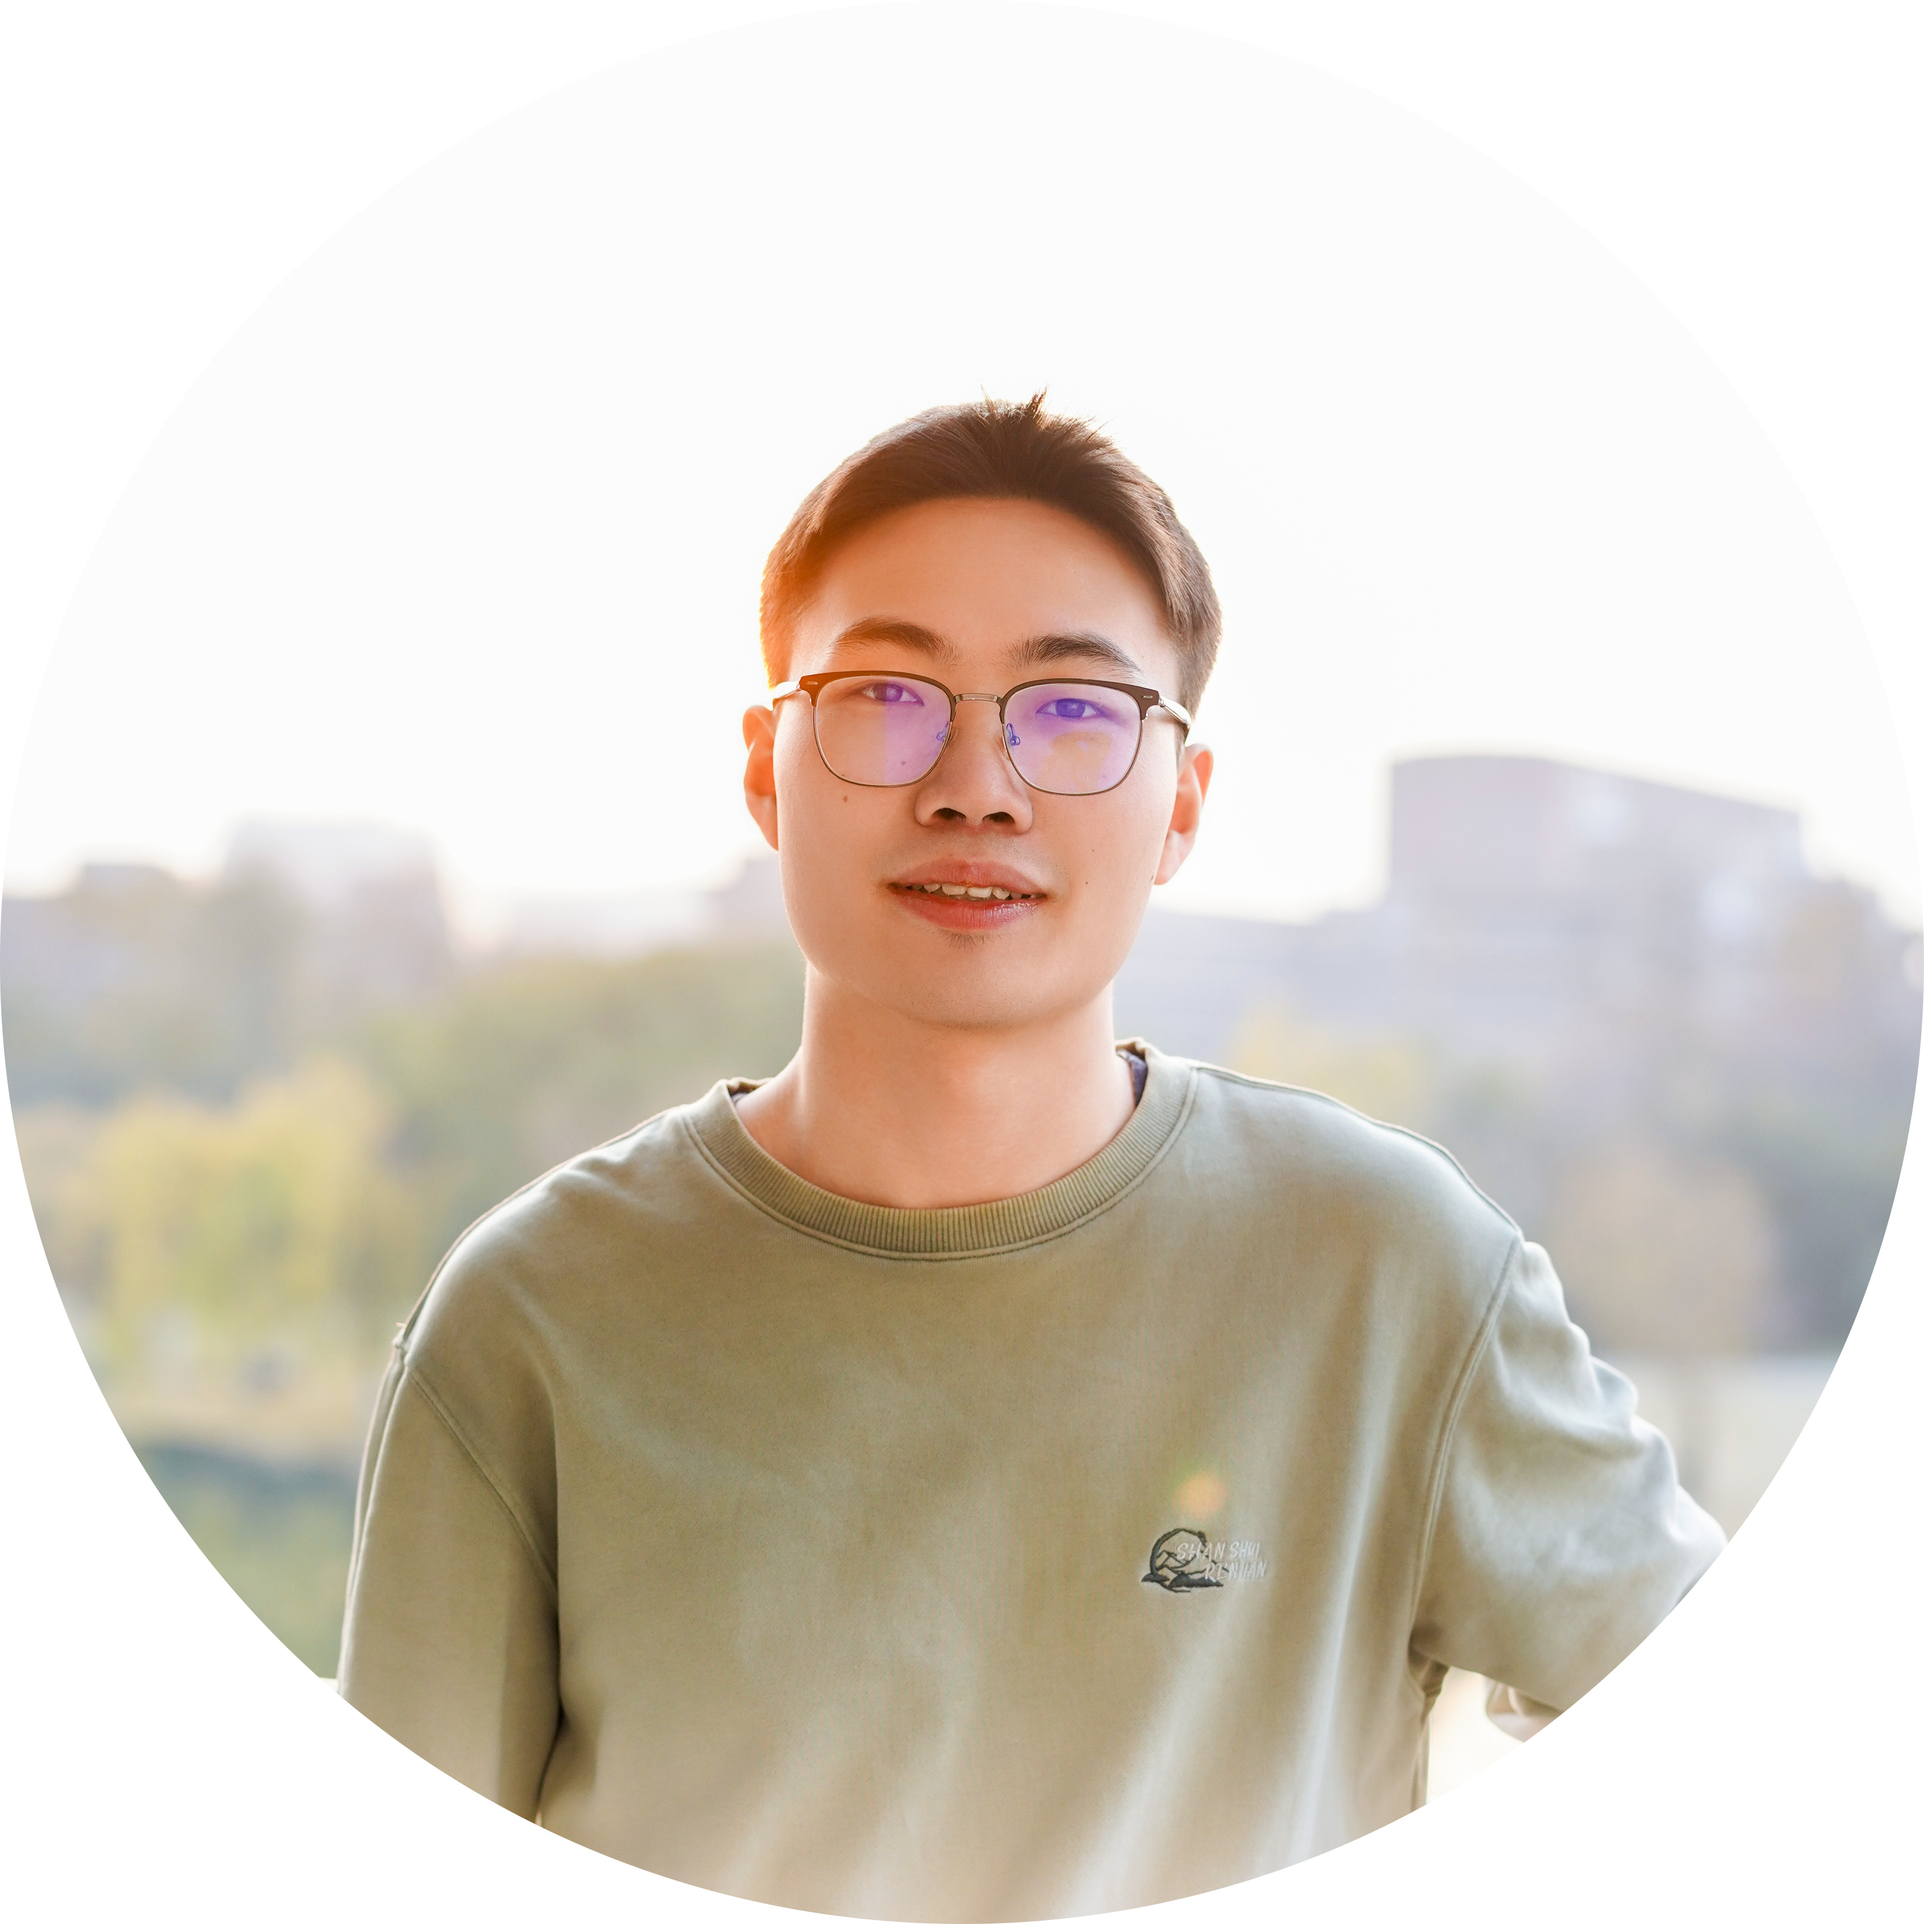
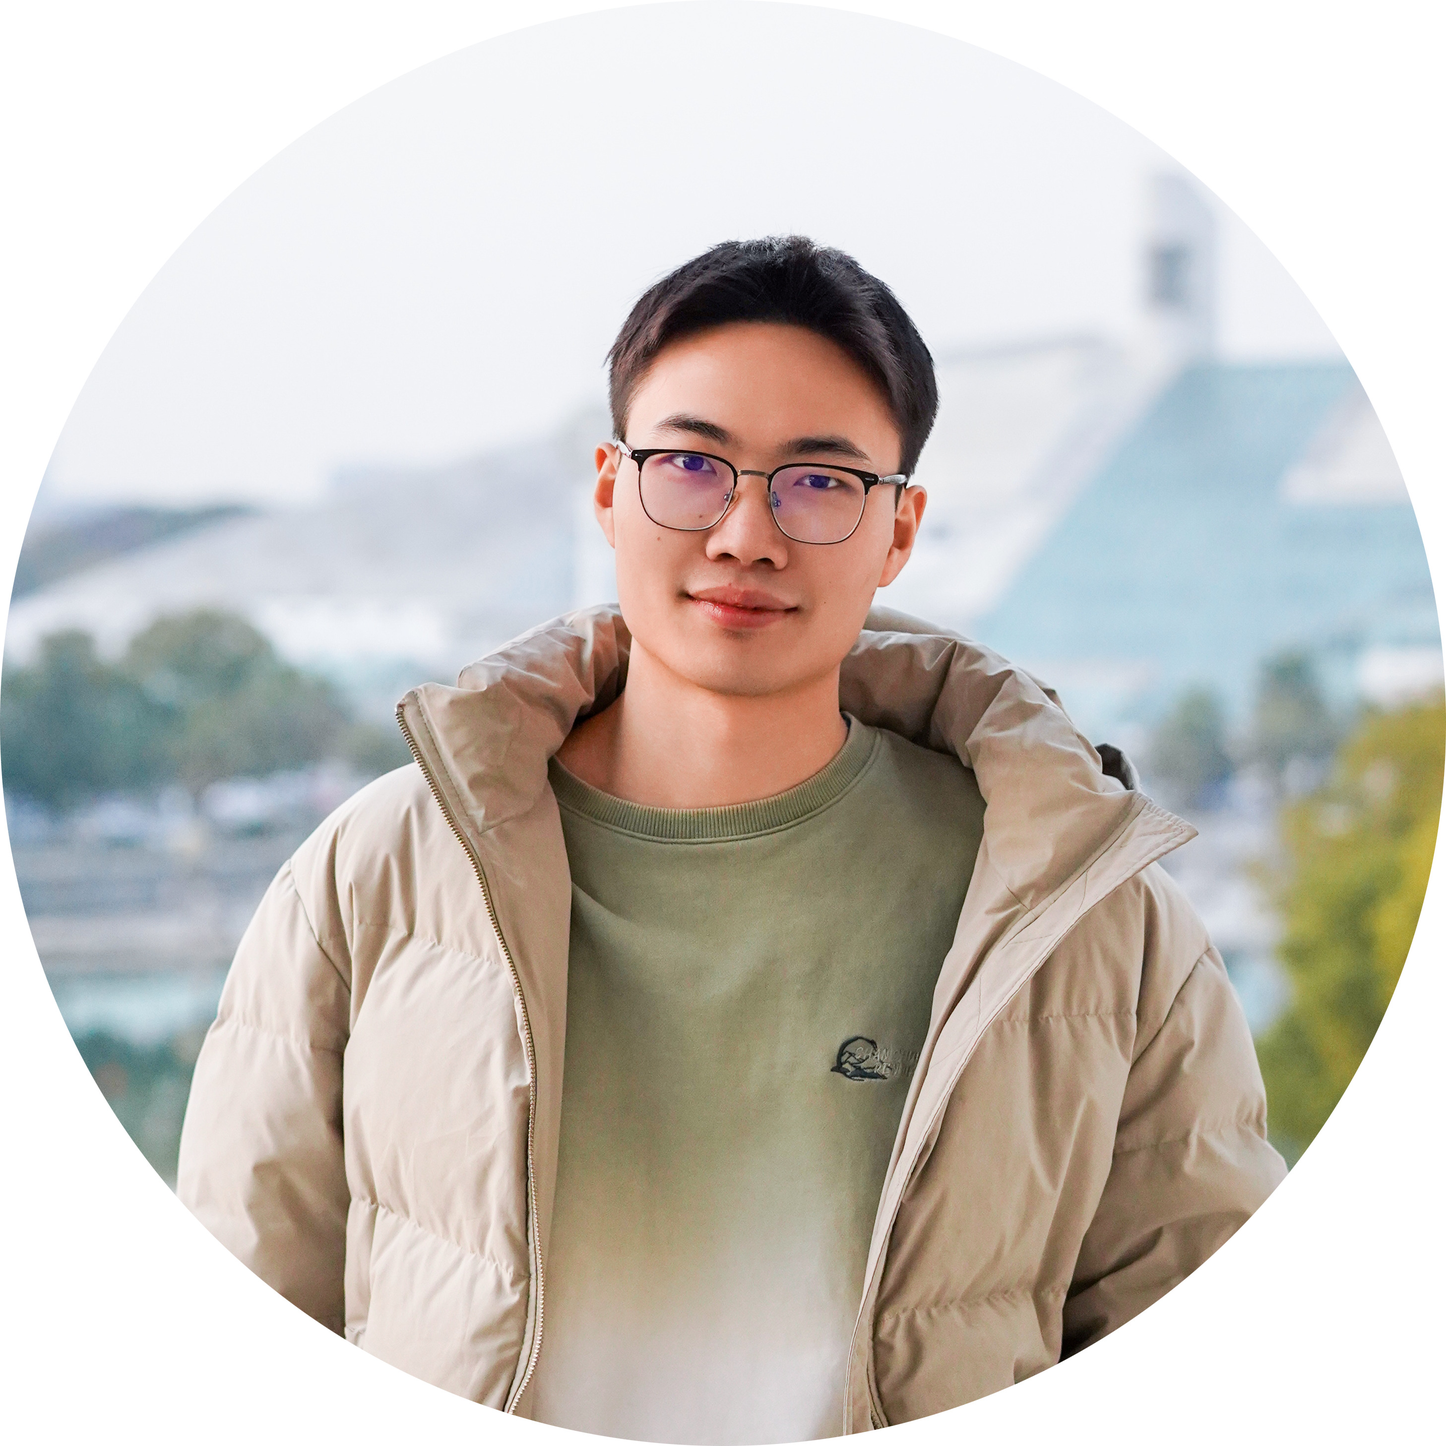
new pic

diff --git a/index.html b/index.html
@@ -28,8 +28,8 @@
             const images = [
                 'images/profile.jpg',
                 'images/profile4.jpg',
-                // 'images/profile2.jpg',
-                // 'images/profile3.jpg',
+                'images/profile2.jpg',
+                'images/profile3.jpg',
                 // 
             ];
     
